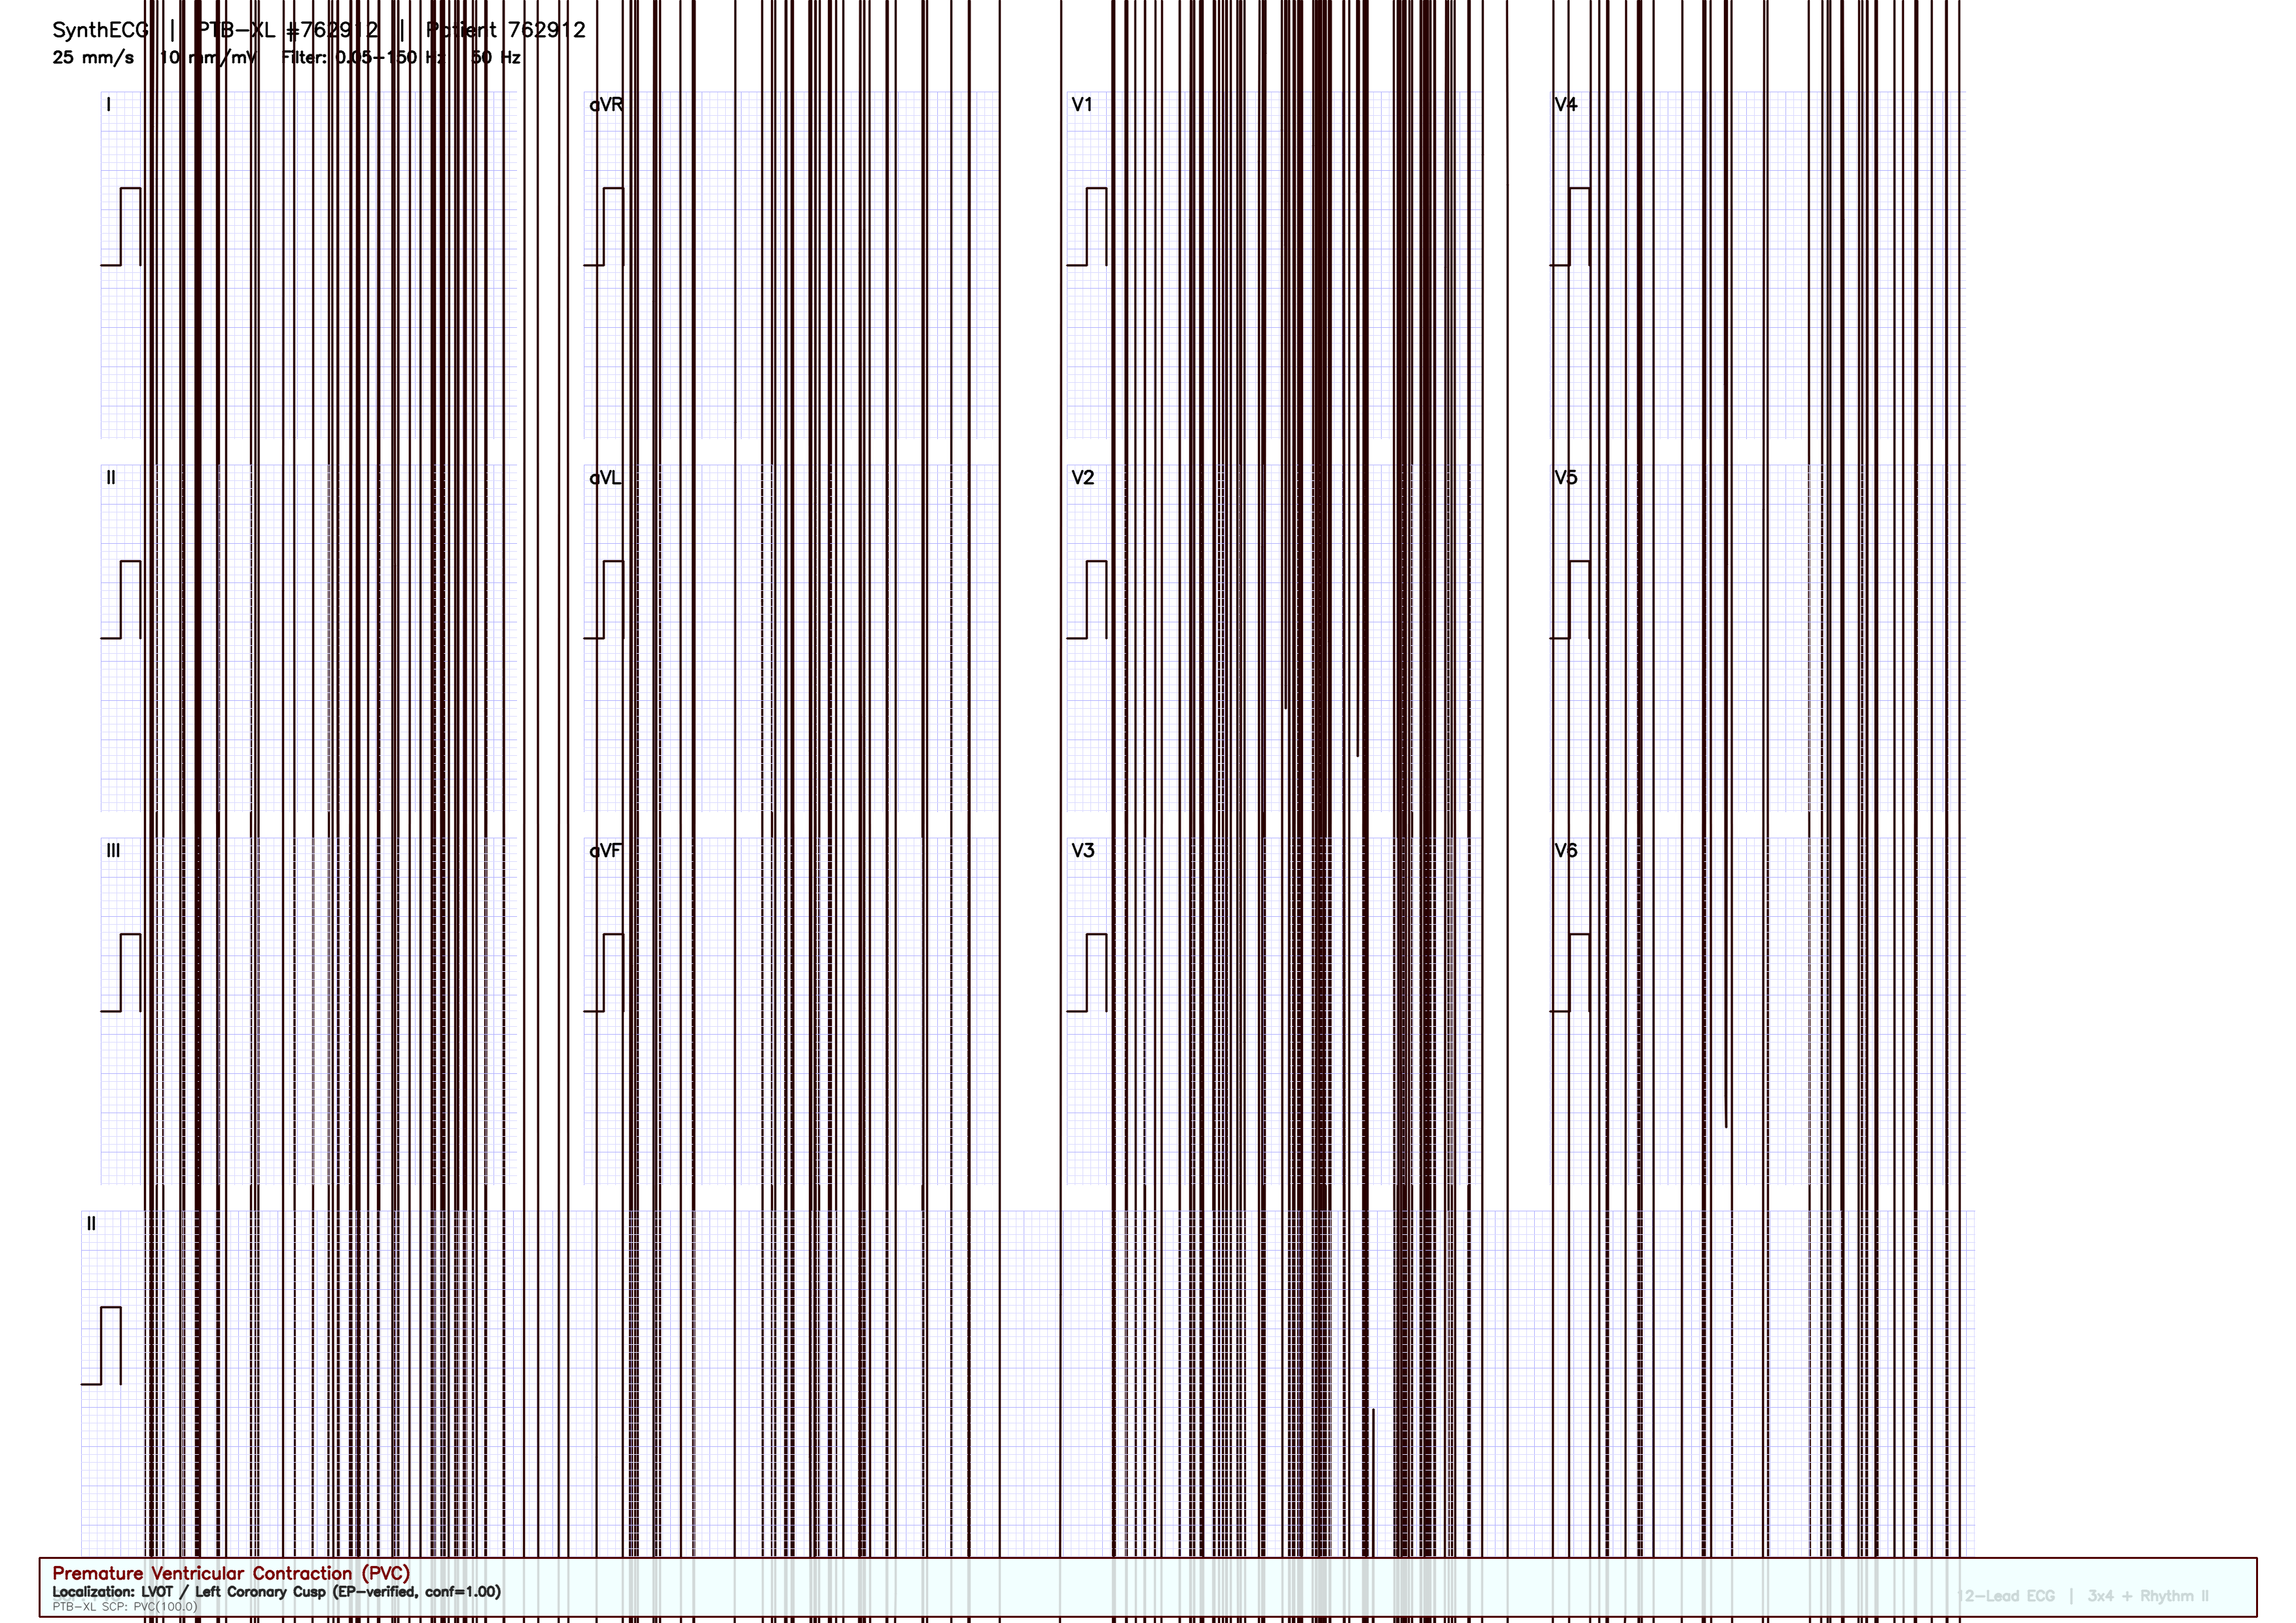
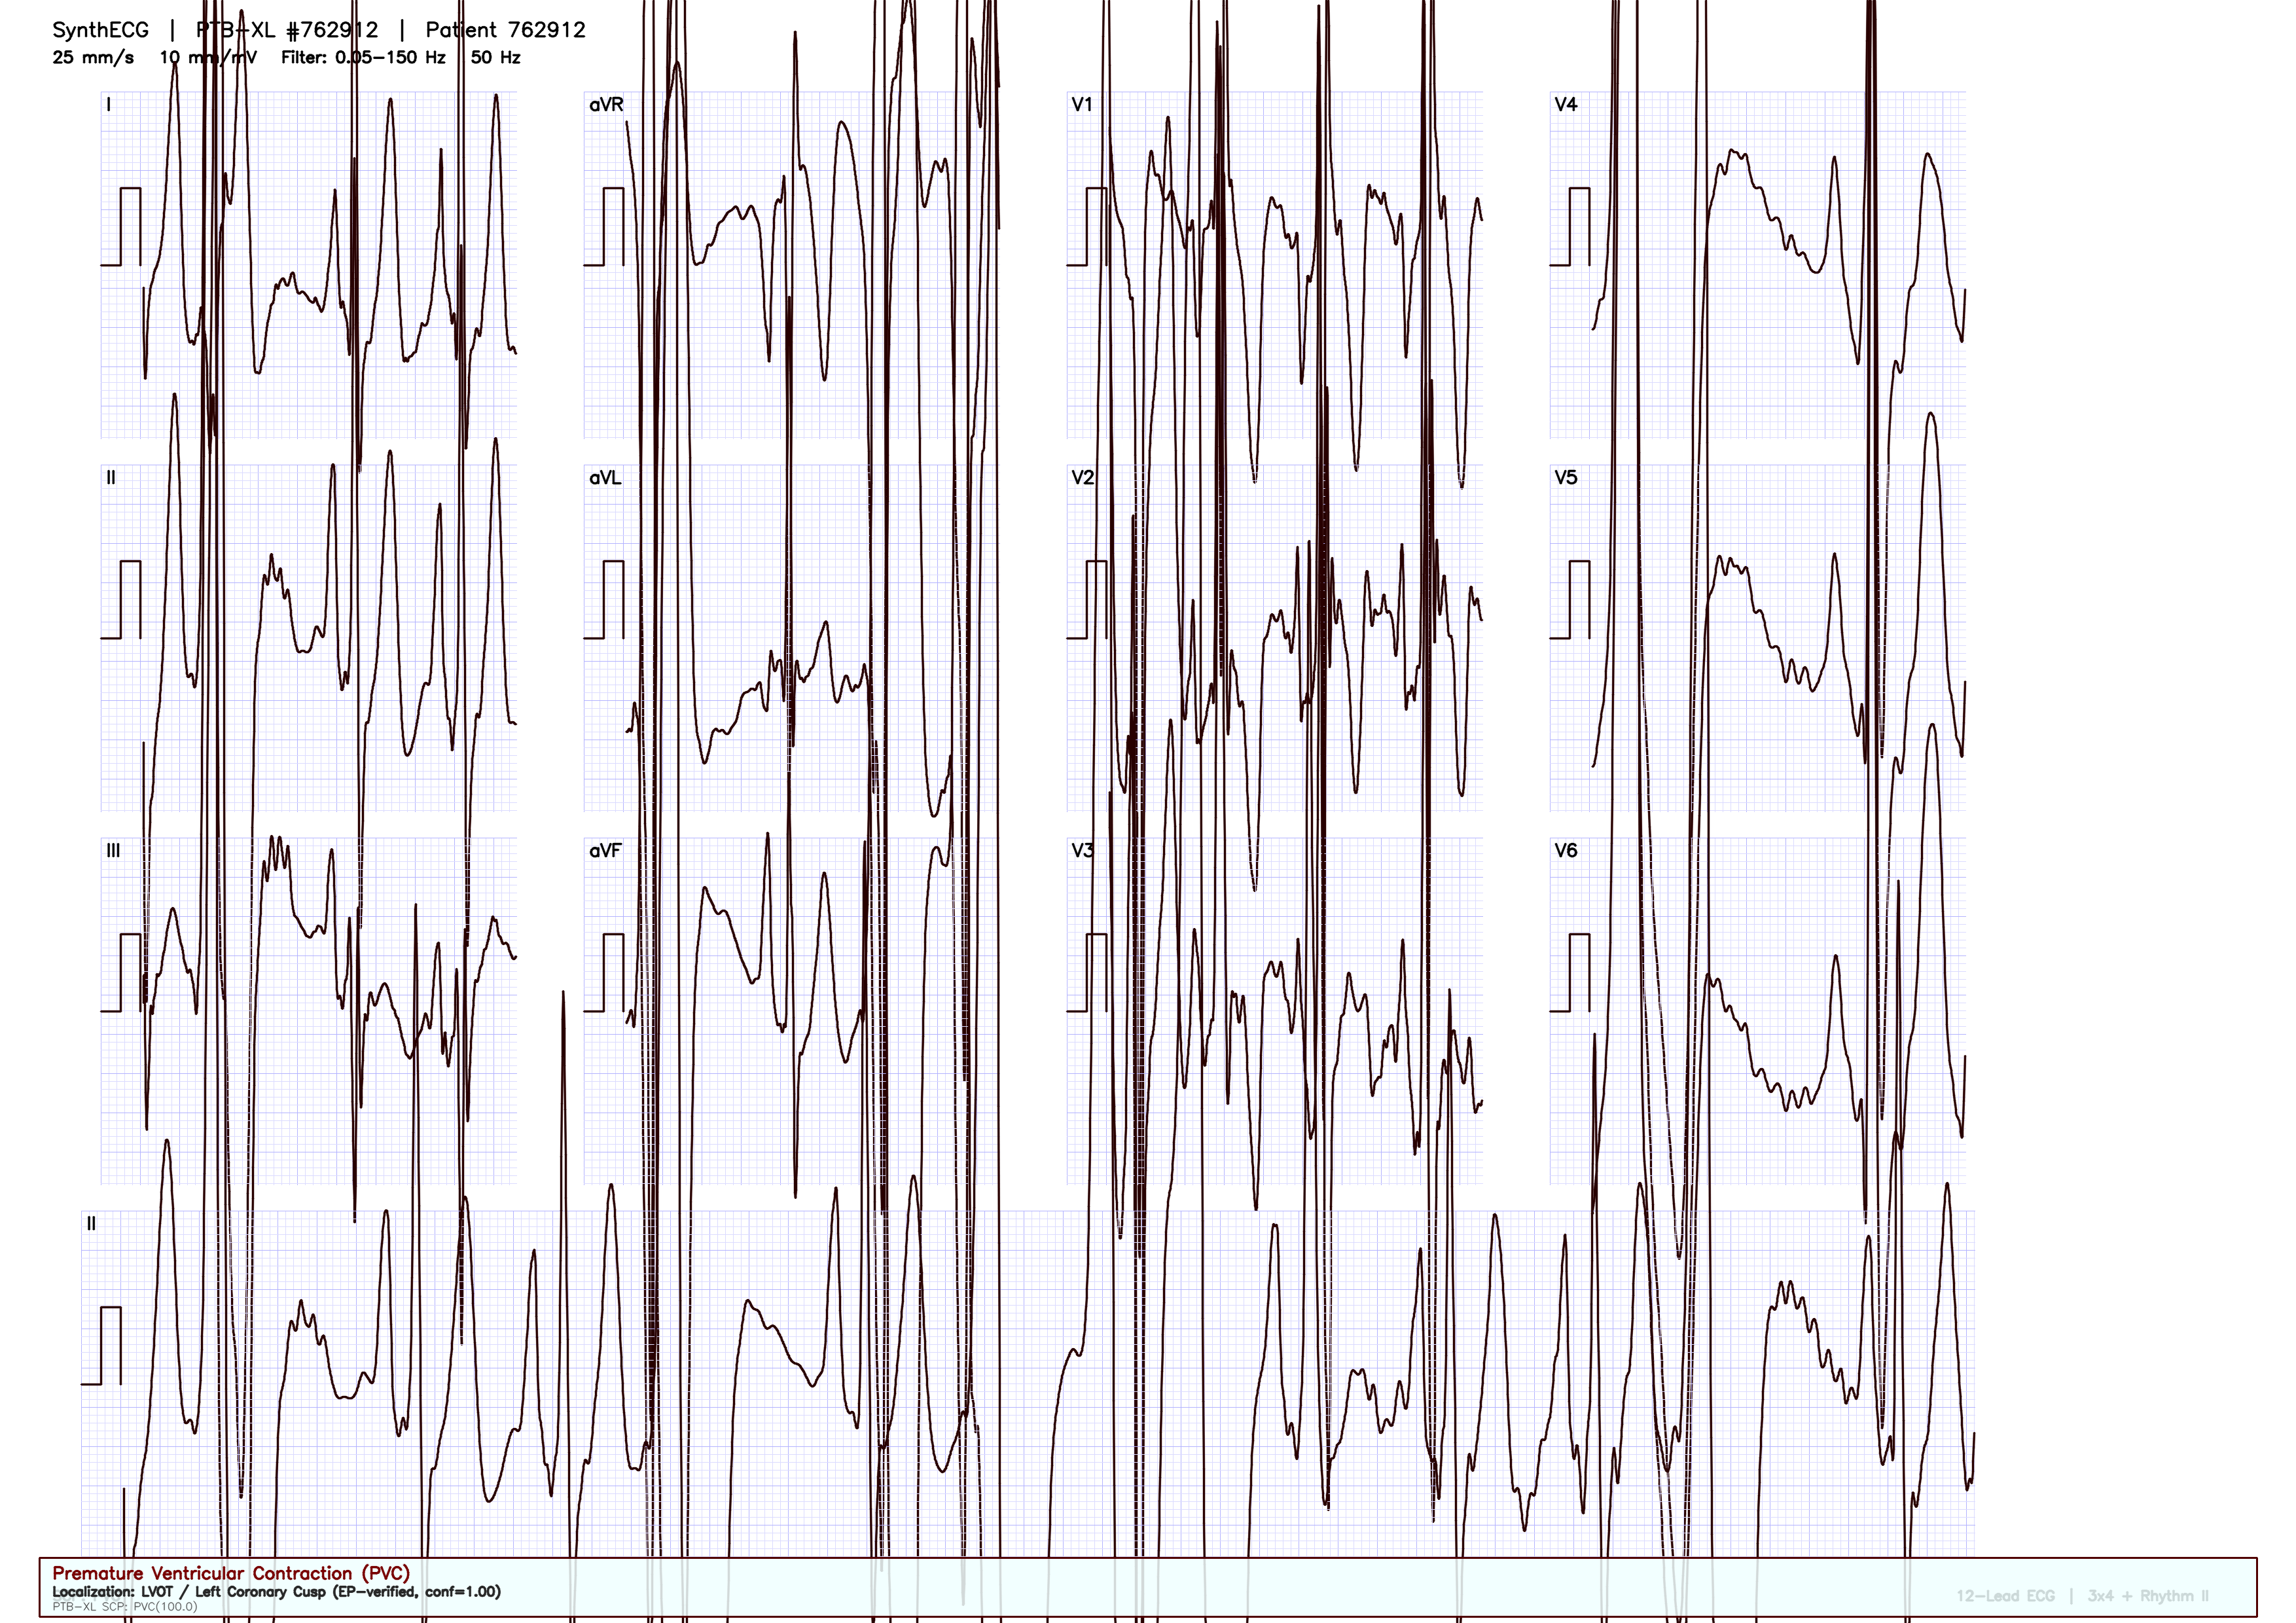
Fix Zheng ECG unit scaling (µV to mV) for PVC rendering
Zheng Figshare CSV amplitudes are in microvolts while the OpenCV renderer
expects millivolts like PTB-XL. Treating µV as mV caused ~1000× gain error
and vertical-line artifacts in PVC example images.

Convert to mV on load when peak amplitude exceeds a safe threshold, add a
unit test, and regenerate pvc_left_coronary_cusp.png.

Changed region(s): [[0.4661, 0.0, 0.87, 1.0], [0.0621, 0.0, 0.435, 1.0]]

diff --git a/synthecg/data/zheng_otva.py b/synthecg/data/zheng_otva.py
@@ -26,6 +26,10 @@ DATABASE_ID = "zheng-otva"
 DEFAULT_CACHE_DIR = Path.home() / ".cache" / "synthecg" / "zheng_otva"
 SOURCE_FS = 2000.0
 TARGET_FS = 500.0
+# Zheng Figshare CSV amplitudes are in microvolts (µV); PTB-XL / renderer use millivolts (mV).
+UV_PER_MV = 1000.0
+# Values above this peak (in file units) are treated as µV; test fixtures use pre-scaled mV.
+UV_SCALE_THRESHOLD = 100.0
 
 DIAGNOSIS_URL = "https://ndownloader.figshare.com/files/17675474"
 ECG_ZIP_URL = "https://ndownloader.figshare.com/files/16838351"
@@ -166,6 +170,14 @@ def _read_ecg_csv(csv_path: Path) -> np.ndarray:
     return signal
 
 
+def _to_millivolts(signal: np.ndarray) -> np.ndarray:
+    """Convert Zheng CSV amplitudes from µV to mV when needed."""
+    peak = float(np.max(np.abs(signal)))
+    if peak > UV_SCALE_THRESHOLD:
+        return (signal / UV_PER_MV).astype(np.float32)
+    return signal.astype(np.float32)
+
+
 def _resample_signal(signal: np.ndarray, source_fs: float, target_fs: float) -> np.ndarray:
     if abs(source_fs - target_fs) < 1e-3:
         return signal.astype(np.float32)
@@ -197,7 +209,7 @@ def fetch_zheng_record(
     paths = ensure_zheng_data(cache_dir, download_ecg=True)
     csv_path = _find_ecg_csv(hospital_id, paths.ecg_dir)
     print(f"Loading Zheng record hospital_id={hospital_id} from {csv_path.name} ...")
-    signal = _read_ecg_csv(csv_path)
+    signal = _to_millivolts(_read_ecg_csv(csv_path))
     signal = _resample_signal(signal, SOURCE_FS, TARGET_FS)
     return SimpleNamespace(
         p_signal=signal,

diff --git a/tests/test_localization.py b/tests/test_localization.py
@@ -159,6 +159,17 @@ def test_select_zheng_records_by_site(tmp_path):
     assert lcc.iloc[0]["site"] == "LCC"
 
 
+def test_zheng_microvolt_to_millivolt():
+    from synthecg.data.zheng_otva import _to_millivolts
+
+    microvolts = np.array([[1500.0, -2000.0]], dtype=np.float32)
+    millivolts = _to_millivolts(microvolts)
+    assert np.allclose(millivolts, [[1.5, -2.0]])
+
+    already_mv = np.array([[0.5, -1.2]], dtype=np.float32)
+    assert np.allclose(_to_millivolts(already_mv), already_mv)
+
+
 def test_fetch_zheng_record_resamples(tmp_path):
     fixture_cache = FIXTURES
     with patch("synthecg.data.zheng_otva.ensure_zheng_data") as mock_ensure: